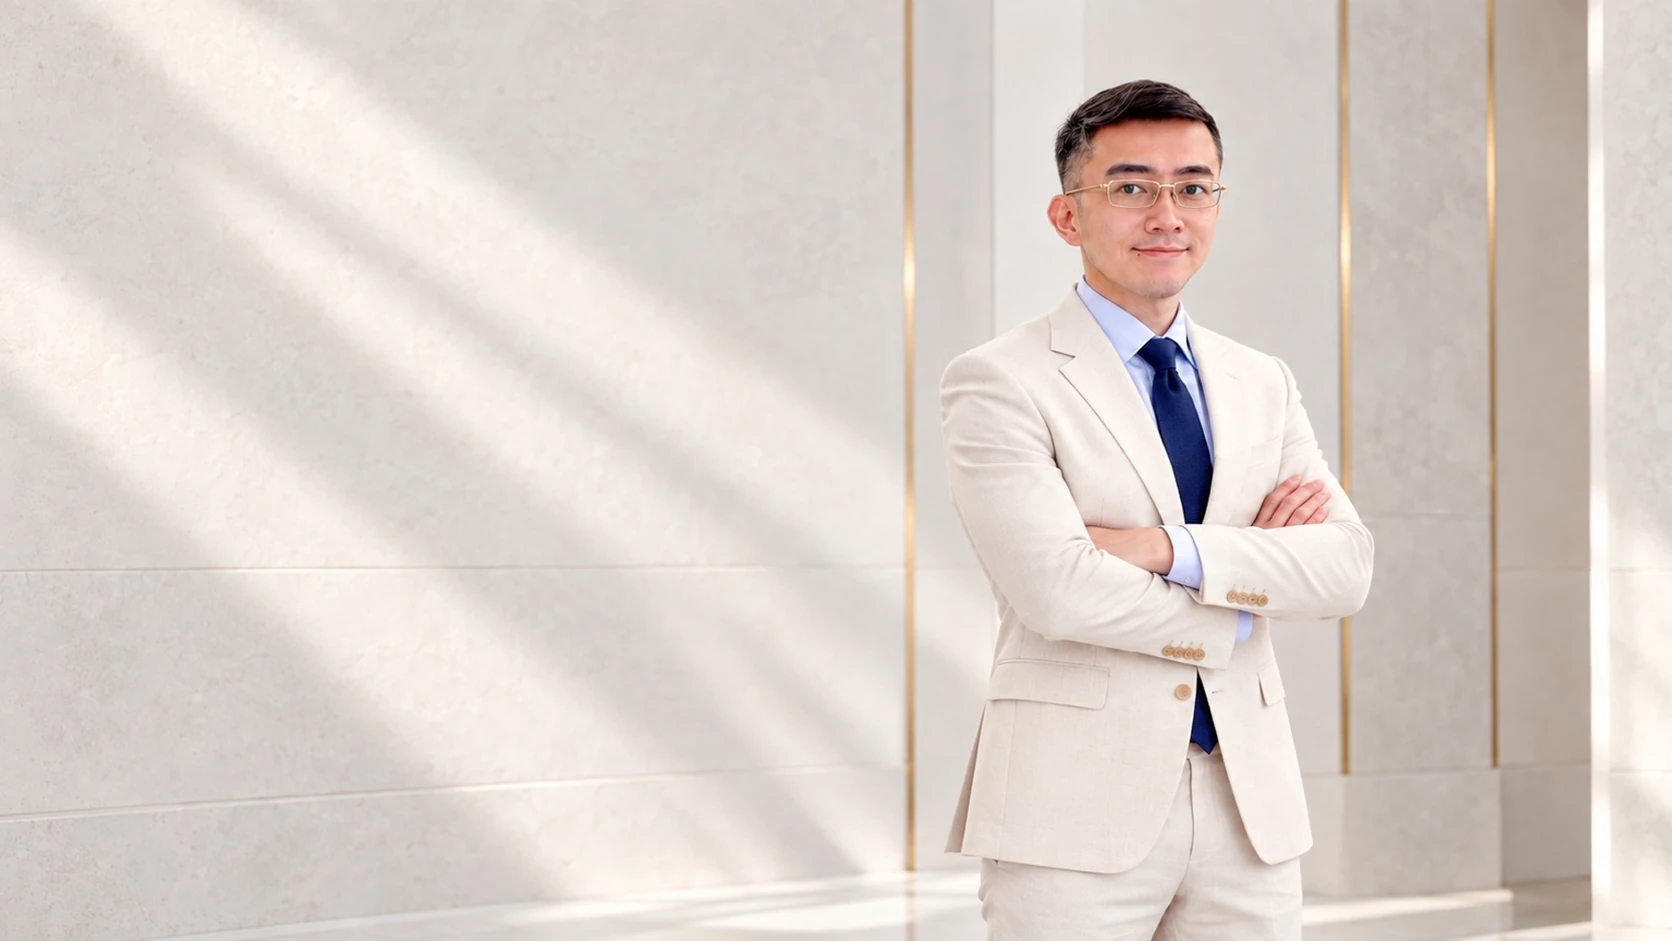
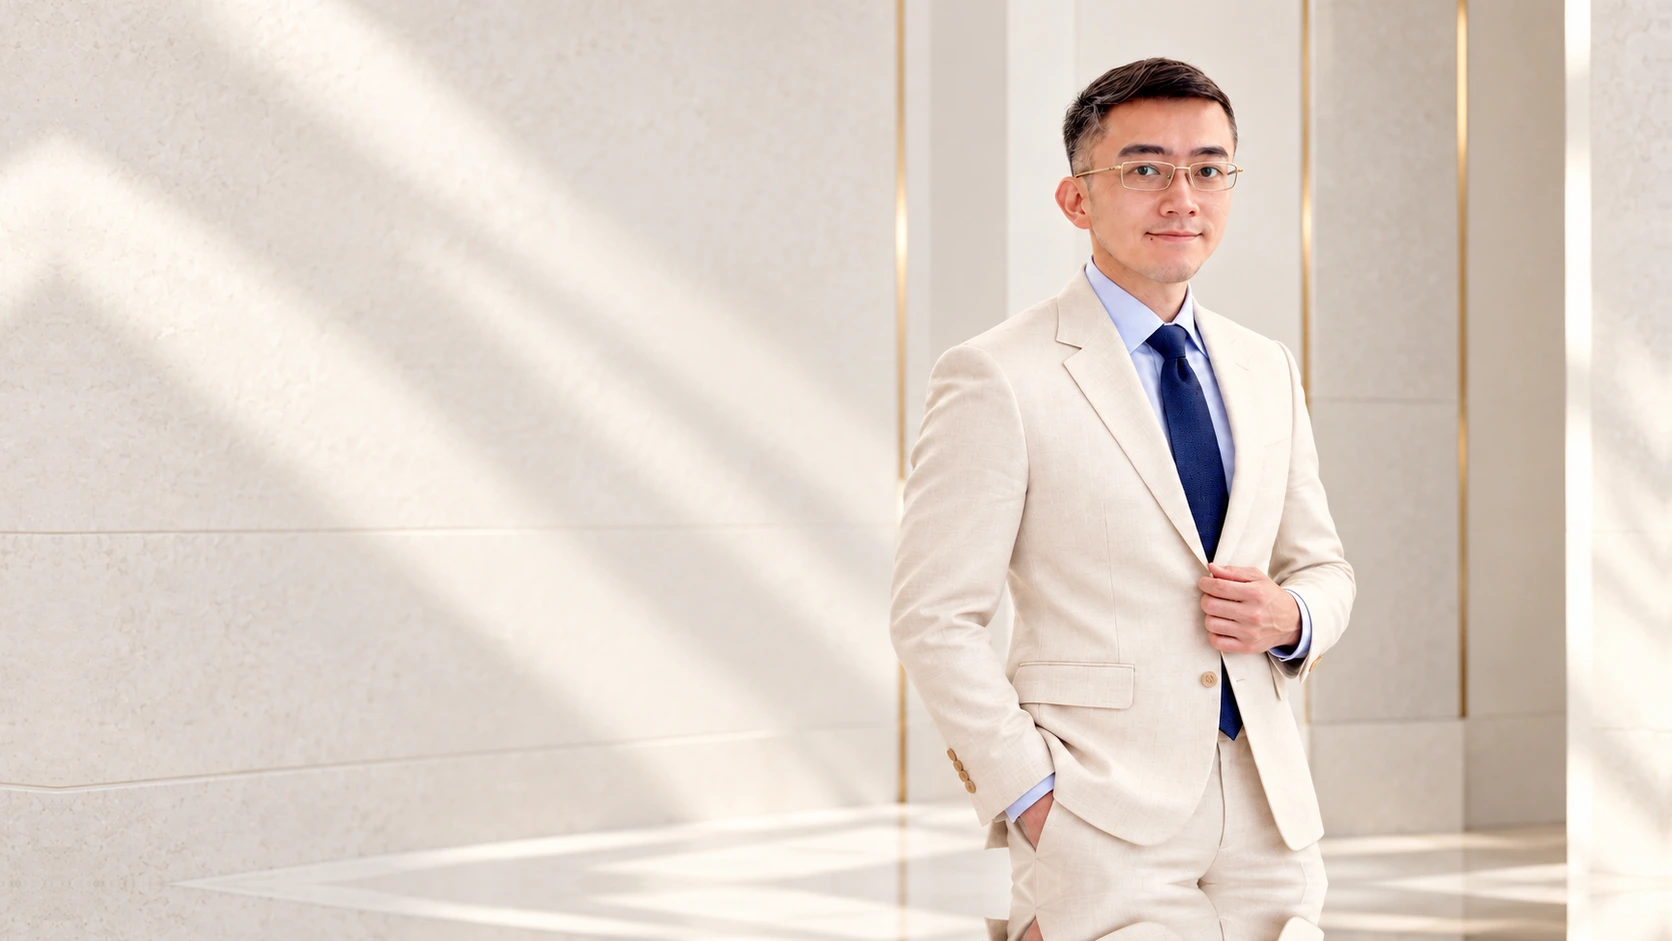
fix(stt): correct Eric portrait visual scale

diff --git a/docs/change-requests/CR-STT-ERIC-HERO-SCALE-CORRECTION-20261022.md b/docs/change-requests/CR-STT-ERIC-HERO-SCALE-CORRECTION-20261022.md
@@ -1,0 +1,34 @@
+# CR-STT-ERIC-HERO-SCALE-CORRECTION-20261022
+
+Date: 2026-10-22
+Requested by: Founder / site owner
+Approval: YES — explicit correction after live visual discrepancy was identified
+
+## Problem
+
+The prior STT /eric-chuang portrait used the same 1672×941 canvas as GCSDA /founder-chairman, but the person itself was materially smaller.
+
+Measured face proxy from the approved production assets:
+- GCSDA founder-chairman: approximately 177px face box
+- prior STT governance-principal: approximately 165px face box
+
+The prior statement that the two portraits were already visually matched was incorrect.
+
+## Correction
+
+Replace the STT portrait asset in place at:
+
+`/visual-bank/stt/eric-governance-principal-hero.webp`
+
+with a different-pose, mechanically reframed version using the same 1672×941 canvas and calibrated to the GCSDA portrait scale/position.
+
+No generated website mockup is used as a production asset.
+
+## Unchanged
+
+- GCSDA portrait
+- route /eric-chuang
+- page copy
+- metadata path
+- hero geometry rules
+- institutional identity and governance boundaries
